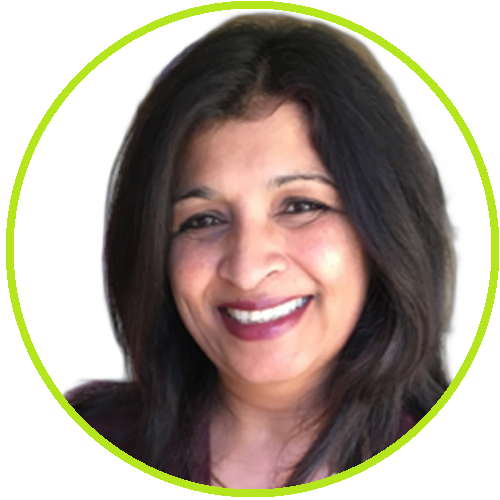
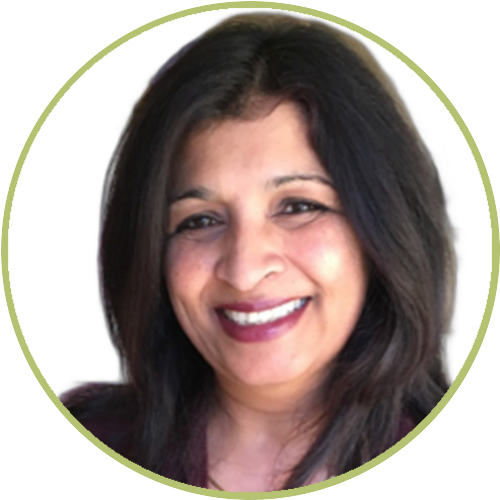
Photo change and more font changes.

diff --git a/src/components/FeesAndBooking.tsx b/src/components/FeesAndBooking.tsx
@@ -21,14 +21,14 @@ export const FeesAndBooking: React.FC<FeesAndBookingProps> = ({ onOpenBookingMod
     <section id="fees" className="py-16 md:py-24 bg-stone-50 border-b border-stone-200">
       <div className="max-w-6xl mx-auto px-4">
         {/* Header */}
-        <div className="max-w-2xl mb-12">
-          <div className="text-xs font-semibold tracking-wider text-emerald-800 uppercase mb-2">
+        <div className="text-center max-w-3xl mx-auto mb-12">
+          <div className="inline-flex items-center text-xs font-semibold tracking-wider text-emerald-800 uppercase mb-2">
             Transparent Pricing & Budgeting
           </div>
           <h2 className="text-3xl sm:text-4xl font-normal text-stone-900 font-serif-display leading-tight mb-3">
             Clear, honest fees with no hidden costs.
           </h2>
-          <p className="text-stone-600 text-base sm:text-lg leading-relaxed">
+          <p className="text-stone-700 text-sm sm:text-base leading-relaxed max-w-2xl mx-auto text-left">
             Therapy is an essential investment in your mental health, wellbeing and peace of mind. We maintain clear and accessible session rates, with a free initial telephone consultation.
           </p>
         </div>
@@ -46,7 +46,7 @@ export const FeesAndBooking: React.FC<FeesAndBookingProps> = ({ onOpenBookingMod
                 <div className="py-3.5 flex items-center justify-between text-base sm:text-lg">
                   <div>
                     <p className="font-semibold text-base sm:text-lg text-stone-900">Introductory Consultation</p>
-                    <p className="text-base sm:text-lg text-stone-500">10-minute phone or video conversation</p>
+                    <p className="text-stone-700 text-sm sm:text-base leading-relaxed">10-minute phone or video conversation</p>
                   </div>
                   <span className="text-emerald-800 font-semibold text-base sm:text-lg">FREE</span>
                 </div>
@@ -54,7 +54,7 @@ export const FeesAndBooking: React.FC<FeesAndBookingProps> = ({ onOpenBookingMod
                 <div className="py-3.5 flex items-center justify-between text-base sm:text-lg">
                   <div>
                     <p className="font-semibold text-base sm:text-lg text-stone-900">Individual Adult Psychotherapy</p>
-                    <p className="text-base sm:text-lg text-stone-500">50-minute 1-to-1 session</p>
+                    <p className="text-stone-700 text-sm sm:text-base leading-relaxed">50-minute 1-to-1 session</p>
                   </div>
                   <span className="text-stone-900 font-semibold text-base sm:text-lg">£65 – £90</span>
                 </div>
@@ -62,7 +62,7 @@ export const FeesAndBooking: React.FC<FeesAndBookingProps> = ({ onOpenBookingMod
                 <div className="py-3.5 flex items-center justify-between text-base sm:text-lg">
                   <div>
                     <p className="font-semibold text-base sm:text-lg text-stone-900">Couples & Relationship Counselling</p>
-                    <p className="text-base sm:text-lg text-stone-500">60-minute joint session</p>
+                    <p className="text-stone-700 text-sm sm:text-base leading-relaxed">60-minute joint session</p>
                   </div>
                   <span className="text-stone-900 font-semibold text-base sm:text-lg">£90</span>
                 </div>
@@ -70,7 +70,7 @@ export const FeesAndBooking: React.FC<FeesAndBookingProps> = ({ onOpenBookingMod
                 <div className="py-3.5 flex items-center justify-between text-base sm:text-lg">
                   <div>
                     <p className="font-semibold text-base sm:text-lg text-stone-900">Young People (Ages 13–17)</p>
-                    <p className="text-base sm:text-lg text-stone-500">50-minute youth session</p>
+                    <p className="text-stone-700 text-sm sm:text-base leading-relaxed">50-minute youth session</p>
                   </div>
                   <span className="text-stone-900 font-semibold text-base sm:text-lg">£60</span>
                 </div>
@@ -78,13 +78,13 @@ export const FeesAndBooking: React.FC<FeesAndBookingProps> = ({ onOpenBookingMod
                 <div className="py-3.5 flex items-center justify-between text-base sm:text-lg">
                   <div>
                     <p className="font-semibold text-base sm:text-lg text-stone-900">Clinical Supervision</p>
-                    <p className="text-base sm:text-lg text-stone-500">60 to 90 minutes for therapists & care staff</p>
+                    <p className="text-stone-700 text-sm sm:text-base leading-relaxed">60 to 90 minutes for therapists & care staff</p>
                   </div>
                   <span className="text-stone-900 font-semibold text-base sm:text-lg">£65 – £75</span>
                 </div>
               </div>
 
-              <div className="mt-4 pt-4 border-t border-stone-100 flex items-center gap-2 text-base sm:text-lg text-stone-500">
+              <div className="mt-4 pt-4 border-t border-stone-100 flex items-center gap-2 text-stone-700 text-sm sm:text-base leading-relaxed">
                 <CreditCard className="w-3.5 h-3.5 text-stone-400" />
                 <span>Payment accepted via online bank transfer or major debit/credit card. Invoices available for employer wellbeing schemes.</span>
               </div>
@@ -100,7 +100,7 @@ export const FeesAndBooking: React.FC<FeesAndBookingProps> = ({ onOpenBookingMod
               <h3 className="text-xl font-bold text-stone-900 font-serif-display mb-2">
                 Send a Safe Message
               </h3>
-              <p className="text-base sm:text-lg text-stone-500 mb-5 leading-relaxed">
+              <p className="text-stone-700 text-sm sm:text-base mb-5 leading-relaxed">
                 Take the pressure off. Leave your contact details and a brief note; we will contact you discreetly within 24 hours.
               </p>
 
@@ -173,7 +173,7 @@ export const FeesAndBooking: React.FC<FeesAndBookingProps> = ({ onOpenBookingMod
                     <button
                       type="button"
                       onClick={() => onOpenBookingModal()}
-                      className="text-base sm:text-lg text-stone-500 hover:text-stone-900 underline"
+                      className="text-stone-700 text-sm sm:text-base hover:text-stone-900 underline"
                     >
                       Or prefer to schedule a specific call time? Click here
                     </button>

diff --git a/src/components/WarmWelcomeSection.tsx b/src/components/WarmWelcomeSection.tsx
@@ -44,15 +44,15 @@ export const WarmWelcomeSection: React.FC<WarmWelcomeSectionProps> = ({ onOpenBo
 
       <div className="max-w-6xl mx-auto px-4 relative z-10">
         {/* Top Header */}
-        <div className="text-center max-w-2xl mx-auto mb-12">
+        <div className="text-center max-w-3xl mx-auto mb-12">
           <div className="inline-flex items-center gap-2 px-3 py-1 rounded-full bg-[#b4c271]/25 border border-[#9eb05b]/40 text-stone-900 text-xs font-semibold mb-3">
             <Heart className="w-3.5 h-3.5 text-stone-900 fill-stone-900/30" />
             <span>A Safe, Non-Judgmental Welcome</span>
           </div>
-          <h2 className="text-2xl sm:text-3xl lg:text-4xl font-normal text-stone-900 font-serif-display leading-tight mb-3">
+          <h2 className="text-2xl sm:text-3xl lg:text-4xl font-normal text-stone-900 font-serif-display leading-tight mb-3 whitespace-nowrap">
             You don’t have to carry everything by yourself.
           </h2>
-          <p className="text-stone-600 text-base sm:text-lg leading-relaxed text-left">Taking the first step into counselling can feel vulnerable. Whether you are seeking therapy for the very first time or returning, you are met with warmth, empathy, and unconditional kindness.</p>
+          <p className="text-stone-700 text-sm sm:text-base leading-relaxed max-w-2xl mx-auto text-left">Taking the first step into counselling can feel vulnerable. Whether you are seeking therapy for the very first time or returning, you are met with warmth, empathy, and unconditional kindness.</p>
         </div>
 
         {/* 2-Column Warm Philosophy & Therapist Message */}
@@ -74,7 +74,7 @@ export const WarmWelcomeSection: React.FC<WarmWelcomeSectionProps> = ({ onOpenBo
                 My consulting room is a quiet, comfortable sanctuary where you can take off the mask, breathe, and speak freely without any fear of judgment.&rdquo;
               </blockquote>
 
-              <p className="text-stone-600 text-base sm:text-lg leading-relaxed">
+              <p className="text-stone-700 text-sm sm:text-base leading-relaxed">
                 As a Registered Member of the British Association for Counselling and Psychotherapy (MBACP), I practice integrative therapy—which simply means I adapt to you and what you need, rather than forcing you into a rigid box.
               </p>
             </div>
@@ -152,14 +152,14 @@ export const WarmWelcomeSection: React.FC<WarmWelcomeSectionProps> = ({ onOpenBo
 
         {/* Interactive "How are you feeling right now?" Navigator */}
         <div className="bg-white rounded-3xl p-6 sm:p-9 border border-stone-200/90 shadow-2xs">
-          <div className="max-w-xl mb-6">
+          <div className="text-center max-w-2xl mx-auto mb-8">
             <span className="text-xs font-bold uppercase tracking-wider text-stone-500 block mb-1">
               Where to Start
             </span>
-            <h3 className="text-2xl sm:text-3xl lg:text-4xl font-normal text-stone-900 font-serif-display">
+            <h3 className="text-2xl sm:text-3xl lg:text-4xl font-normal text-stone-900 font-serif-display leading-tight mb-2">
               How are you feeling right now?
             </h3>
-            <p className="text-xs sm:text-sm text-stone-600 mt-1">
+            <p className="text-stone-700 text-sm sm:text-base leading-relaxed max-w-xl mx-auto">
               Click any of the link below to see how we gently support you through it:
             </p>
           </div>

diff --git a/src/components/LocalSeoSection.tsx b/src/components/LocalSeoSection.tsx
@@ -7,14 +7,14 @@ export const LocalSeoSection: React.FC = () => {
     <section id="location" className="py-16 md:py-24 bg-white border-b border-stone-200">
       <div className="max-w-6xl mx-auto px-4">
         {/* Header */}
-        <div className="text-center max-w-2xl mx-auto mb-12">
-          <div className="text-xs font-semibold tracking-wider text-emerald-800 uppercase mb-2">
+        <div className="text-center max-w-3xl mx-auto mb-12">
+          <div className="inline-flex items-center text-xs font-semibold tracking-wider text-emerald-800 uppercase mb-2">
             Practice Location & Accessibility
           </div>
-          <h2 className="text-3xl sm:text-4xl font-normal text-stone-900 font-serif-display leading-tight mb-3">
+          <h2 className="text-3xl sm:text-4xl font-normal text-stone-900 font-serif-display leading-tight mb-3 whitespace-nowrap">
             Quiet, discreet therapy in Oadby, Leicester.
           </h2>
-          <p className="text-stone-600 text-base sm:text-lg leading-relaxed">
+          <p className="text-stone-700 text-sm sm:text-base leading-relaxed max-w-2xl mx-auto text-left">
             Finding a therapy room where you feel safe, unobserved, and comfortable is vital. Our practice is situated on a quiet residential street with free on-street parking and easy transport access.
           </p>
         </div>
@@ -55,7 +55,7 @@ export const LocalSeoSection: React.FC = () => {
                 </div>
               </div>
 
-              <div className="space-y-3.5 text-base sm:text-lg text-stone-600 border-t border-stone-200 pt-4">
+              <div className="space-y-3.5 text-stone-700 text-sm sm:text-base leading-relaxed border-t border-stone-200 pt-4">
                 <div className="flex items-start gap-2.5">
                   <Car className="w-4 h-4 text-emerald-800 shrink-0 mt-0.5" />
                   <div>
@@ -84,13 +84,13 @@ export const LocalSeoSection: React.FC = () => {
           </div>
 
           {/* Nationwide Online Therapy Box */}
-          <div className="bg-emerald-900/5 rounded-2xl p-6 border border-emerald-900/15 flex items-start gap-3.5 text-base sm:text-lg">
+          <div className="bg-emerald-900/5 rounded-2xl p-6 border border-emerald-900/15 flex items-start gap-3.5 text-stone-700 text-sm sm:text-base leading-relaxed">
             <div className="w-9 h-9 rounded-xl bg-emerald-100 text-emerald-800 flex items-center justify-center shrink-0">
               <Video className="w-5 h-5" />
             </div>
             <div>
-              <h4 className="font-semibold text-stone-900 text-base sm:text-lg">Online Therapy Across the UK</h4>
-              <p className="text-base sm:text-lg text-stone-600 mt-1 leading-relaxed">
+              <h4 className="font-semibold text-stone-900 text-sm sm:text-base">Online Therapy Across the UK</h4>
+              <p className="text-stone-700 text-sm sm:text-base mt-1 leading-relaxed">
                 If you reside outside Leicestershire or prefer attending from your home or office, we offer encrypted online sessions via Microsoft Teams, offering full parity of therapeutic care.
               </p>
             </div>

diff --git a/src/components/Hero.tsx b/src/components/Hero.tsx
@@ -38,7 +38,7 @@ export const Hero: React.FC<HeroProps> = ({
               A calm, confidential space to <span className="font-serif-display italic font-medium text-[#b4c271]">heal</span>, understand yourself, and move forward.
             </h1>
 
-            <p className="text-base sm:text-lg text-stone-600 font-normal leading-relaxed mb-8 max-w-xl">
+            <p className="text-stone-700 text-sm sm:text-base font-normal leading-relaxed mb-8 max-w-xl">
               Professional, compassionate therapy for adults, couples, and young people dealing with anxiety, depression, trauma, ADHD, Autism and life crossroads. Discreet private consulting room in Oadby, Leicester with free parking, plus secure video sessions nationwide.
             </p>
 
@@ -64,7 +64,7 @@ export const Hero: React.FC<HeroProps> = ({
             {/* Friendly reassurance micro-note */}
             <div className="flex items-center gap-2.5 text-xs text-stone-700 bg-white/90 border border-[#b4c271]/30 rounded-xl p-3 max-w-xl shadow-2xs">
               <span className="w-2.5 h-2.5 rounded-full bg-[#b4c271] shrink-0" />
-              <p className="text-base sm:text-lg text-stone-700">
+              <p className="text-stone-700 text-sm sm:text-base leading-relaxed">
                 Take a free 10-minute introductory chat; it's completely informal and a chance to say hello and see how you feel.
               </p>
             </div>
@@ -74,11 +74,11 @@ export const Hero: React.FC<HeroProps> = ({
           <div className="md:col-span-6">
             <div className="bg-white rounded-3xl p-5 sm:p-6 border border-stone-200/90 shadow-sm relative">
               {/* Therapy Practice Image from Website - Complete Circle */}
-              <div className="relative rounded-full overflow-hidden mb-5 border-4 border-stone-100 shadow-md aspect-square w-64 h-64 sm:w-72 sm:h-72 lg:w-80 lg:h-80 max-w-full mx-auto group bg-stone-100">
+              <div className="relative rounded-full overflow-hidden mb-5 shadow-md aspect-square w-64 h-64 sm:w-72 sm:h-72 lg:w-80 lg:h-80 max-w-full mx-auto group">
                 <img
                   src={PRACTICE_INFO.images.teamIndex}
                   alt="Talkaid Counselling Services"
-                  className="w-full h-full object-cover rounded-full transition-transform duration-500 group-hover:scale-105"
+                  className="w-full h-full object-contain rounded-full transition-transform duration-500 group-hover:scale-105"
                 />
               </div>
               <div className="text-center mb-5">

diff --git a/src/components/FaqSection.tsx b/src/components/FaqSection.tsx
@@ -24,7 +24,7 @@ export const FaqSection: React.FC<FaqSectionProps> = ({ onOpenBooking }) => {
           <h2 className="text-3xl sm:text-4xl font-normal text-stone-900 font-serif-display leading-tight mb-3">
             Frequently Asked Questions
           </h2>
-          <p className="text-stone-600 text-base sm:text-lg leading-relaxed">
+          <p className="text-stone-700 text-sm sm:text-base leading-relaxed text-left">
             Starting therapy naturally raises questions. Here are clear answers to the most common inquiries from prospective clients.
           </p>
         </div>
@@ -52,7 +52,7 @@ export const FaqSection: React.FC<FaqSectionProps> = ({ onOpenBooking }) => {
                 </button>
 
                 {isOpen && (
-                  <div className="px-5 pb-5 sm:px-6 sm:pb-6 pt-0 text-stone-600 text-base sm:text-lg leading-relaxed border-t border-stone-100 animate-in fade-in duration-200">
+                  <div className="px-5 pb-5 sm:px-6 sm:pb-6 pt-0 text-stone-700 text-sm sm:text-base leading-relaxed border-t border-stone-100 animate-in fade-in duration-200">
                     <p className="mt-3">{faq.answer}</p>
                   </div>
                 )}
@@ -65,7 +65,7 @@ export const FaqSection: React.FC<FaqSectionProps> = ({ onOpenBooking }) => {
         <div className="mt-10 p-6 rounded-2xl bg-white border border-stone-200 text-center flex flex-col sm:flex-row items-center justify-between gap-4">
           <div className="text-left">
             <h4 className="text-base sm:text-lg font-bold text-stone-900">Have a specific or confidential question?</h4>
-            <p className="text-base sm:text-lg text-stone-600 mt-0.5">We are always happy to discuss your circumstances before deciding.</p>
+            <p className="text-stone-700 text-sm sm:text-base mt-0.5 leading-relaxed">We are always happy to discuss your circumstances before deciding.</p>
           </div>
           <button
             onClick={onOpenBooking}

diff --git a/src/components/FirstSessionSection.tsx b/src/components/FirstSessionSection.tsx
@@ -6,14 +6,14 @@ export const FirstSessionSection: React.FC = () => {
     <section id="first-session" className="py-16 md:py-24 bg-white border-b border-stone-200">
       <div className="max-w-6xl mx-auto px-4">
         <div className="bg-stone-50 rounded-3xl p-6 sm:p-9 border border-stone-200/90 shadow-2xs">
-          <div className="max-w-2xl mb-8">
-            <div className="flex items-center gap-2 text-xs font-semibold uppercase tracking-wider text-emerald-800 mb-2">
+          <div className="text-center max-w-2xl mx-auto mb-8">
+            <div className="inline-flex items-center justify-center gap-2 text-xs font-semibold uppercase tracking-wider text-emerald-800 mb-2">
               <BookOpen className="w-4 h-4" /> The Process
             </div>
-            <h3 className="text-2xl font-normal text-stone-900 font-serif-display">
+            <h3 className="text-2xl sm:text-3xl font-normal text-stone-900 font-serif-display leading-tight mb-2">
               What happens during your first session?
             </h3>
-            <p className="text-base sm:text-lg text-stone-600 mt-1">
+            <p className="text-stone-700 text-sm sm:text-base max-w-xl mx-auto leading-relaxed text-left">
               Fear of being put on the spot is natural. Here is exactly how we approach our first conversation:
             </p>
           </div>
@@ -60,7 +60,7 @@ export const FirstSessionSection: React.FC = () => {
             </div>
           </div>
 
-          <div className="mt-6 pt-4 border-t border-stone-200 flex items-center gap-2 text-base sm:text-lg text-stone-500">
+          <div className="mt-6 pt-4 border-t border-stone-200 flex items-center gap-2 text-stone-700 text-sm sm:text-base leading-relaxed">
             <Lock className="w-3.5 h-3.5 text-emerald-800 shrink-0" />
             <span>All sessions are conducted in accordance with the British Association for Counselling and Psychotherapy (BACP) Ethical Framework.</span>
           </div>

diff --git a/src/components/ServicesSection.tsx b/src/components/ServicesSection.tsx
@@ -17,20 +17,20 @@ export const ServicesSection: React.FC<ServicesSectionProps> = ({ onSelectServic
     <section id="services" className="py-16 md:py-24 bg-white border-b border-stone-200">
       <div className="max-w-6xl mx-auto px-4">
         {/* Section Header */}
-        <div className="max-w-4xl mb-12">
-          <div className="text-xs font-semibold tracking-wider text-emerald-800 uppercase mb-2">
+        <div className="text-center max-w-3xl mx-auto mb-12">
+          <div className="inline-flex items-center text-xs font-semibold tracking-wider text-emerald-800 uppercase mb-2">
             Professional Practice Offerings
           </div>
           <h2 className="text-xl sm:text-2xl md:text-3xl lg:text-4xl font-normal text-stone-900 font-serif-display leading-tight mb-4 whitespace-nowrap">
             Therapy tailored to where you are right now.
           </h2>
-          <p className="text-stone-600 text-sm sm:text-base leading-relaxed">
+          <p className="text-stone-700 text-sm sm:text-base leading-relaxed max-w-2xl mx-auto text-left">
             Whether you are wrestling with anxiety, depression, processing the past, ADHD, navigating a struggling relationship, or seeking professional clinical supervision, every session is grounded in empathy, safety, and evidence-based practice.
           </p>
         </div>
 
         {/* Tab Selector */}
-        <div className="flex flex-wrap items-center gap-1.5 p-1 bg-stone-100 rounded-xl mb-8 max-w-fit">
+        <div className="flex flex-wrap items-center justify-center gap-1.5 p-1 bg-stone-100 rounded-xl mb-8 max-w-fit mx-auto">
           <button
             onClick={() => setActiveTab('all')}
             className={`py-2 px-3.5 rounded-lg text-xs font-semibold transition-all ${

diff --git a/src/components/SpecialtiesSection.tsx b/src/components/SpecialtiesSection.tsx
@@ -31,8 +31,8 @@ export const SpecialtiesSection: React.FC<SpecialtiesSectionProps> = ({ onOpenBo
               className="w-72 h-72 sm:w-[400px] sm:h-[400px] md:w-[480px] md:h-[480px] max-w-full aspect-square object-contain rounded-full shadow-md border-4 border-white mx-auto"
             />
           </div>
-          <p className="text-stone-600 text-sm sm:text-base leading-relaxed max-w-2xl mx-auto mb-6 text-right">
-            Therapy at Talkaid is rooted in compassionate, paced integrative practice. Explore the common challenges we support clients through each week. General counselling includes all the issues in the above poster. Below are some examples of what we deal with.
+          <p className="text-stone-700 text-sm sm:text-base leading-relaxed max-w-2xl mx-auto mb-6 text-left">
+            Therapy at Talkaid is rooted in compassionate and paced integrative practice. Explore the common challenges we support clients through each week. General counselling includes all the issues in the above poster. Below are some examples of what we deal with.
           </p>
 
           <div className="flex items-center justify-center gap-1.5 p-1 bg-stone-200/70 rounded-xl max-w-fit mx-auto flex-wrap">
@@ -96,7 +96,7 @@ export const SpecialtiesSection: React.FC<SpecialtiesSectionProps> = ({ onOpenBo
                   {item.name}
                 </h3>
 
-                <p className="text-base sm:text-lg text-stone-600 mb-5 leading-relaxed">
+                <p className="text-stone-700 text-sm sm:text-base leading-relaxed mb-5">
                   {item.description}
                 </p>
 

diff --git a/src/components/Header.tsx b/src/components/Header.tsx
@@ -28,7 +28,7 @@ export const Header: React.FC<HeaderProps> = ({
               Accepting New Clients
             </span>
             <span className="text-stone-700/60 hidden sm:inline" aria-hidden="true">·</span>
-            <span className="text-stone-900 font-medium hidden sm:inline">
+            <span className="text-stone-950 font-bold hidden sm:inline">
               Leicester (In-Person) & Globally Online
             </span>
           </div>
@@ -44,11 +44,11 @@ export const Header: React.FC<HeaderProps> = ({
             <span className="text-stone-700/50" aria-hidden="true">|</span>
             <button
               onClick={onOpenCrisis}
-              className="text-stone-900 hover:text-rose-950 transition-colors flex items-center gap-1 text-[11px] font-semibold cursor-pointer"
+              className="text-stone-950 hover:text-rose-950 transition-colors flex items-center gap-1 text-xs font-bold cursor-pointer"
               title="Urgent mental health support contacts"
             >
               <HeartPulse className="w-3.5 h-3.5 text-rose-800" />
-              <span>Urgent Support</span>
+              <span className="text-stone-950 font-bold">Urgent Support</span>
             </button>
           </div>
         </div>

diff --git a/src/components/TherapyQuiz.tsx b/src/components/TherapyQuiz.tsx
@@ -100,14 +100,14 @@ export const TherapyQuiz: React.FC<TherapyQuizProps> = ({ onOpenBooking }) => {
       <div id="questionnaire" className="absolute -top-20 pointer-events-none" />
       <div className="max-w-3xl mx-auto px-4">
         {/* Header */}
-        <div className="text-center mb-10">
+        <div className="text-center max-w-2xl mx-auto mb-10">
           <div className="inline-flex items-center gap-1.5 text-xs font-semibold tracking-wider text-emerald-800 uppercase mb-2">
             <Sparkles className="w-3.5 h-3.5" /> Gentle 60-Second Self-Reflection
           </div>
-          <h2 className="text-3xl font-normal text-stone-900 font-serif-display mb-3">
+          <h2 className="text-3xl sm:text-4xl font-normal text-stone-900 font-serif-display leading-tight mb-3">
             Is counselling right for you?
           </h2>
-          <p className="text-stone-600 text-base sm:text-lg max-w-lg mx-auto">
+          <p className="text-stone-700 text-sm sm:text-base leading-relaxed max-w-lg mx-auto text-left">
             Answer 3 quiet questions to receive personalized insight into how our practice can support you.
           </p>
         </div>

diff --git a/src/components/PractitionerProfile.tsx b/src/components/PractitionerProfile.tsx
@@ -35,7 +35,7 @@ export const PractitionerProfile: React.FC = () => {
               At Talkaid Counselling Services, I believe entering therapy is an act of genuine courage. Whether you are dealing with chronic anxiety that impacts your daily life, working through painful trauma or abuse, navigating marriage difficulties, or seeking clinical supervision, you are met with warmth, empathy, and unconditional respect.
             </p>
 
-            <p className="text-stone-600 text-base sm:text-lg leading-relaxed">
+            <p className="text-stone-700 text-sm sm:text-base leading-relaxed">
               My clinical approach is integrative—drawing collaboratively from Humanistic, Psychodynamic, and Cognitive Behavioural traditions. Rather than imposing rigid frameworks, we work at a pace that honours your emotional safety and personal values.
             </p>
 
